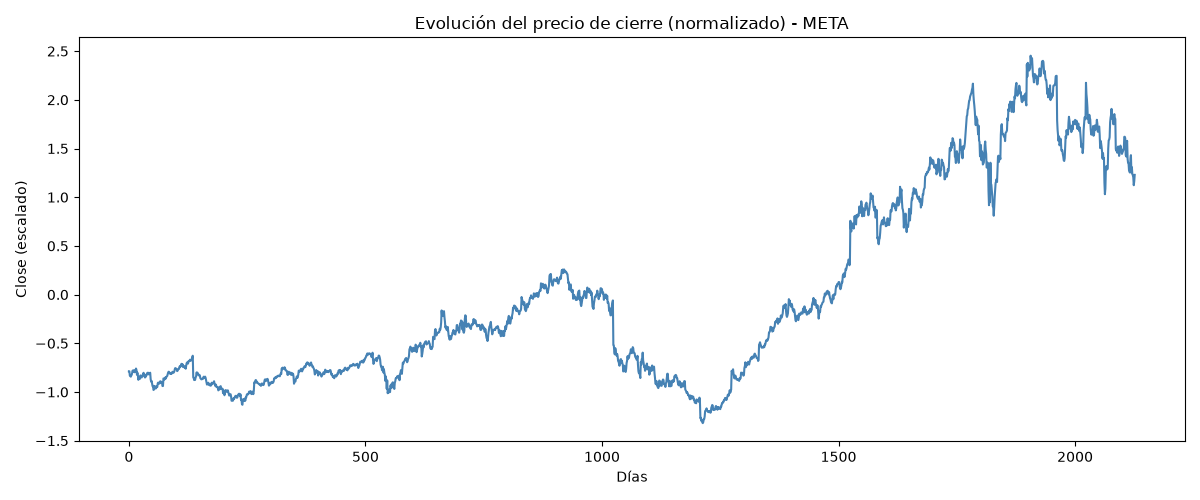
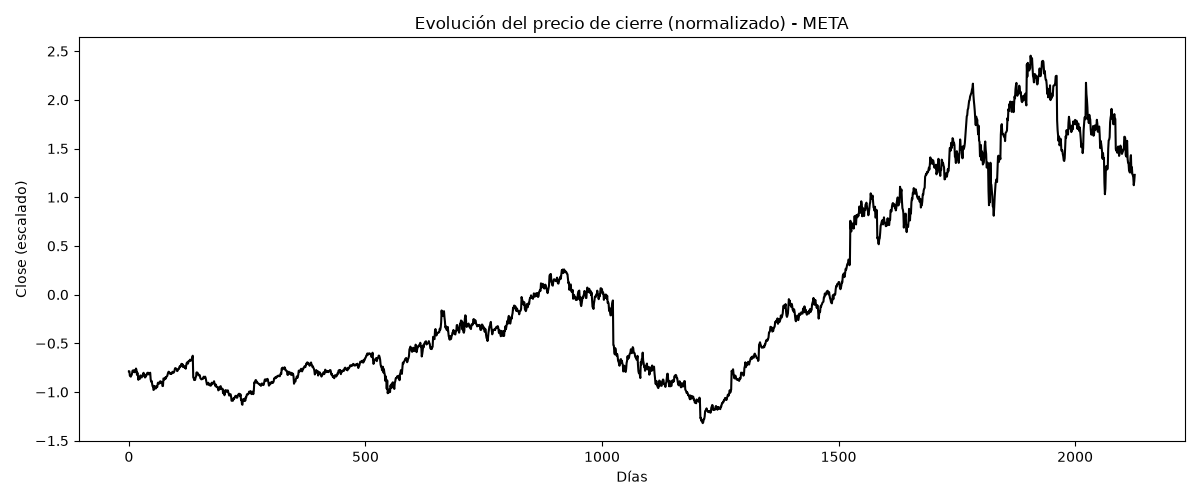
Add presentation header to notebook
Adds a markdown cell at the beginning of the notebook with course information (Inteligencia Artificial), professor name, and team member details including names and IDs.

diff --git a/src/data_collection.py b/src/data_collection.py
@@ -22,6 +22,7 @@ request = StockBarsRequest(
     start=datetime(2018, 1, 1),
     end=datetime(2026, 7, 1),
 )
+
 """
 request = StockBarsRequest(
     symbol_or_symbols=["META"],